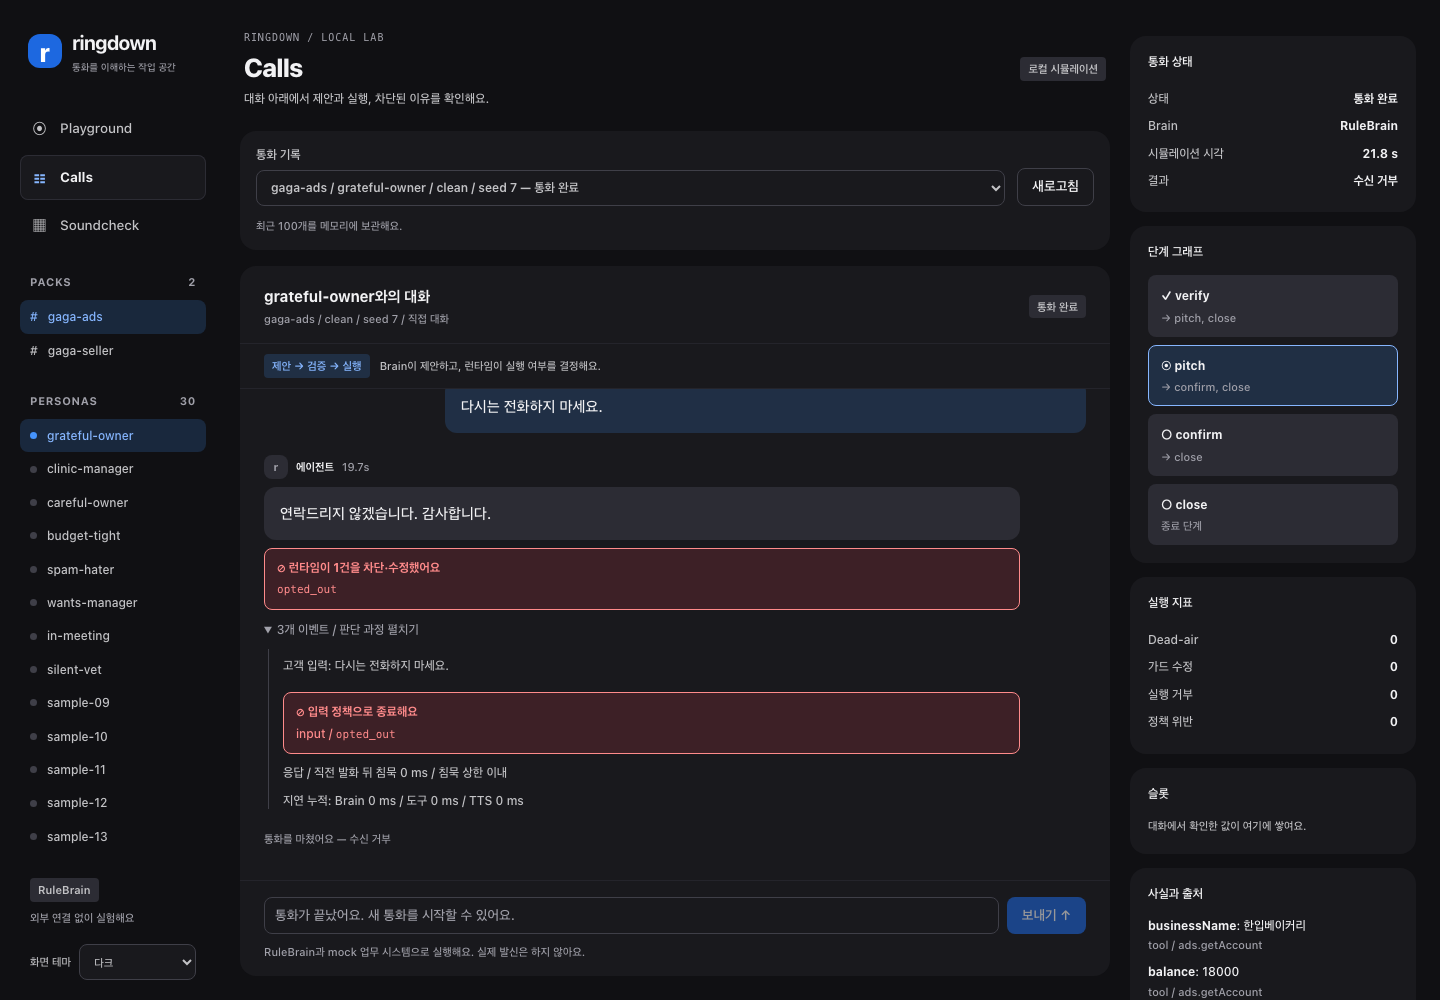
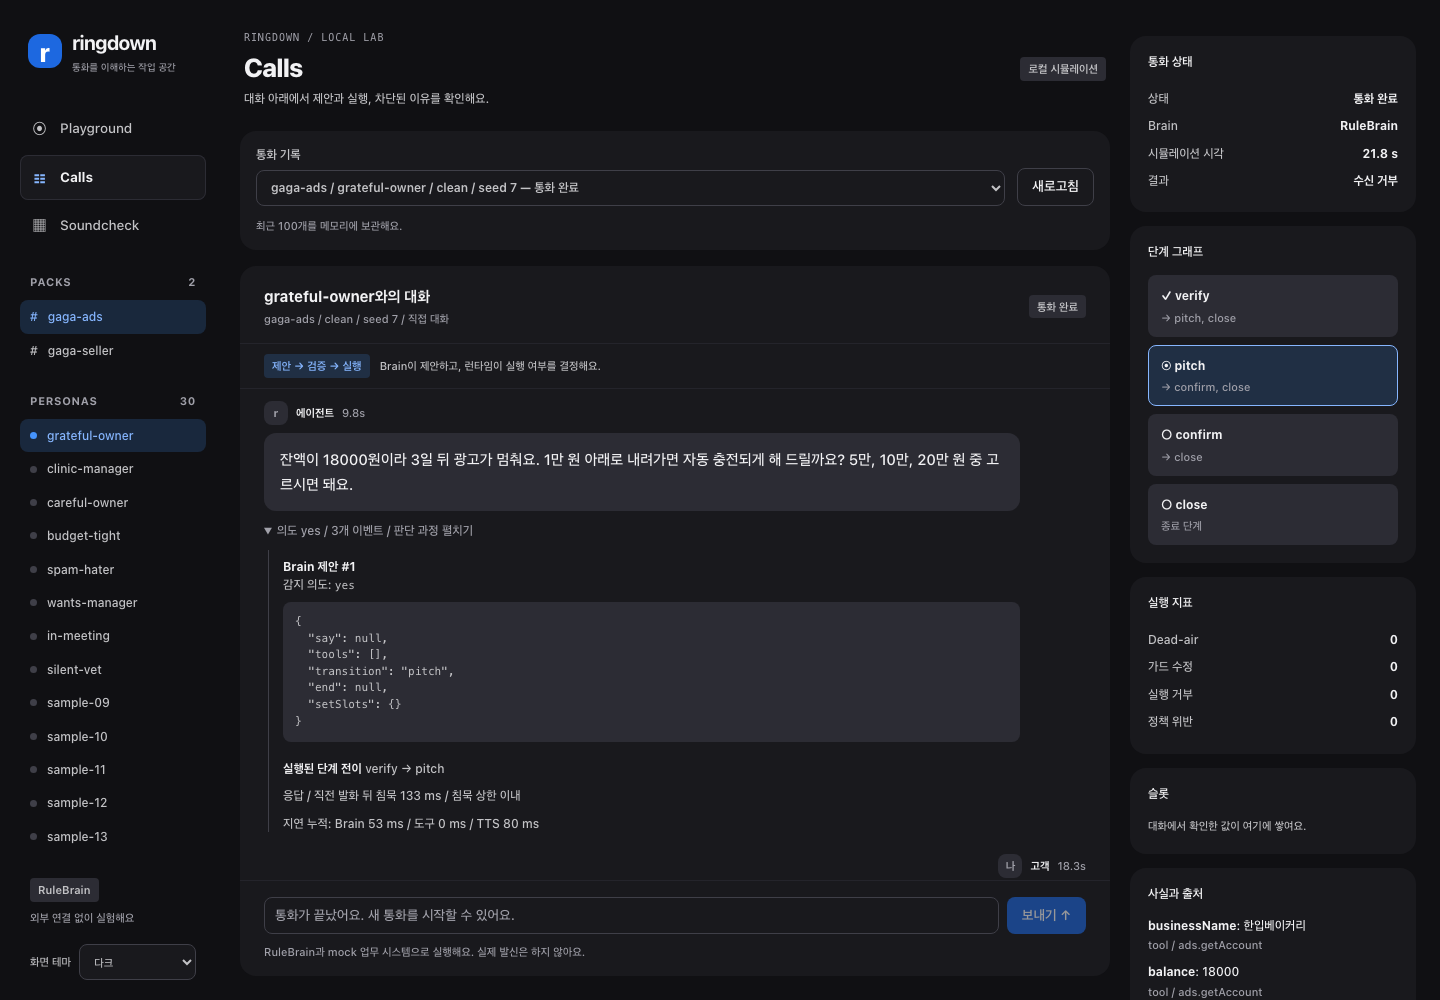
fix: 입력 정책 처리(수신 거부 등)를 차단과 구분해 표시
수신 거부·상담원 요청은 런타임이 의도대로 처리한 것이라 빨간 차단 배너 대신 정보 톤으로 보여준다.

Changed region(s): [[0.1562, 0.372, 0.7812, 0.868]]

diff --git a/web/trace.js b/web/trace.js
@@ -8,7 +8,7 @@ export function turnTrace(turn, index, call, pack) {
   const previous = transcript.slice(0, index).findLast(t => t.role === 'agent');
   const start = previous?.startedAt ?? -Infinity;
   const events = call.events.filter(e => e.at > start && e.at <= turn.startedAt);
-  const rejects = events.filter(e => e.type === 'guard.reject');
+  const rejects = events.filter(e => e.type === 'guard.reject' && e.layer !== 'input');
   const user = transcript.slice(0, index).findLast(t => t.role === 'user');
   const before = transcript[index - 1];
   const silence = before ? Math.max(0, turn.startedAt - before.endedAt) : 0;
@@ -25,7 +25,10 @@ export function turnTrace(turn, index, call, pack) {
         ${data({ say: p.say ?? null, tools: p.tools ?? [], transition: p.transition ?? null, end: p.end ?? null, setSlots: p.setSlots ?? {} })}
         ${rejected ? `<p>사유: <code>${esc(rejected.reason)}</code> — 이 제안은 실행하지 않았어요.</p>` : ''}</div>`);
     } else if (e.type === 'guard.reject') {
-      rows.push(`<div class="rejection"><b>⊘ ${e.layer === 'control' ? '실행을 차단했어요' : e.layer === 'output' ? '발화를 수정했어요' : '입력 정책으로 종료해요'}</b>${esc(e.layer)} / <code>${esc(e.reason)}</code></div>`);
+      // Input policy (opt-out, handoff request) is the runtime working as intended, not a blocked proposal.
+      rows.push(e.layer === 'input'
+        ? `<div class="policy-note"><b>입력 정책이 먼저 처리했어요</b>${esc(e.layer)} / <code>${esc(e.reason)}</code></div>`
+        : `<div class="rejection"><b>⊘ ${e.layer === 'control' ? '실행을 차단했어요' : '발화를 수정했어요'}</b>${esc(e.layer)} / <code>${esc(e.reason)}</code></div>`);
     } else if (e.type === 'tool.call') {
       rows.push(`<div class="trace-item"><b>↳ ${esc(e.call.tool)}</b> ${e.builtin ? '내장 도구' : `호출 #${e.callSeq}`}${data(e.call.args)}</div>`);
     } else if (e.type === 'tool.result') {

diff --git a/web/style.css b/web/style.css
@@ -163,6 +163,8 @@ input, select { background: var(--color-bg-surface); border: 1px solid var(--col
 .trace-item b { color: var(--color-text-primary); }
 .rejection { border: 1px solid var(--color-danger); border-radius: var(--r-sm); background: var(--color-danger-bg); color: var(--color-danger); padding: 10px 12px; margin-top: 8px; font-size: var(--fs-sm); }
 .rejection b { display: block; margin-bottom: 4px; }
+.policy-note { border: 1px solid var(--color-info); border-radius: var(--r-sm); background: var(--color-info-bg); color: var(--color-info); padding: 10px 12px; margin-top: 8px; font-size: var(--fs-sm); }
+.policy-note b { display: block; margin-bottom: 4px; }
 .rejected-plan { border: 1px dashed var(--color-danger); padding: 10px; border-radius: var(--r-sm); }
 .rejected-plan > b { color: var(--color-danger); }
 .composer { display: flex; flex-wrap: wrap; gap: 8px; padding: 16px 24px; border-top: 1px solid var(--color-border-subtle); }

diff --git a/tests/play-view.test.js b/tests/play-view.test.js
@@ -36,3 +36,12 @@ it('multi-seed heatmap uses goal success, and non-rate metrics have no invented 
   expect(html).toContain('CI 없음');
   expect(html).toContain('성공 0%, 2통화 열기');
 });
+it('input policy (opt-out) is shown as handled, not as a blocked proposal', async () => {
+  const customerSource = { spec: { speechRate: 7 }, reply: () => '다시는 전화하지 마세요', responseDelay: () => 300, interruption: () => undefined };
+  let state;
+  const result = await runCall(loaded.value, loaded.value.personas[0], 'clean', 7, { brain: new RuleBrain(), customerSource, onState: s => { state = s; } });
+  expect(result.outcome).toBe('opted_out');
+  const html = messages({ state, events: result.events, status: 'complete' }, { silenceMaxSec: loaded.value.pack.policy.silenceMaxSec });
+  expect(html).toContain('입력 정책이 먼저 처리했어요');
+  expect(html).not.toContain('런타임이');
+});
